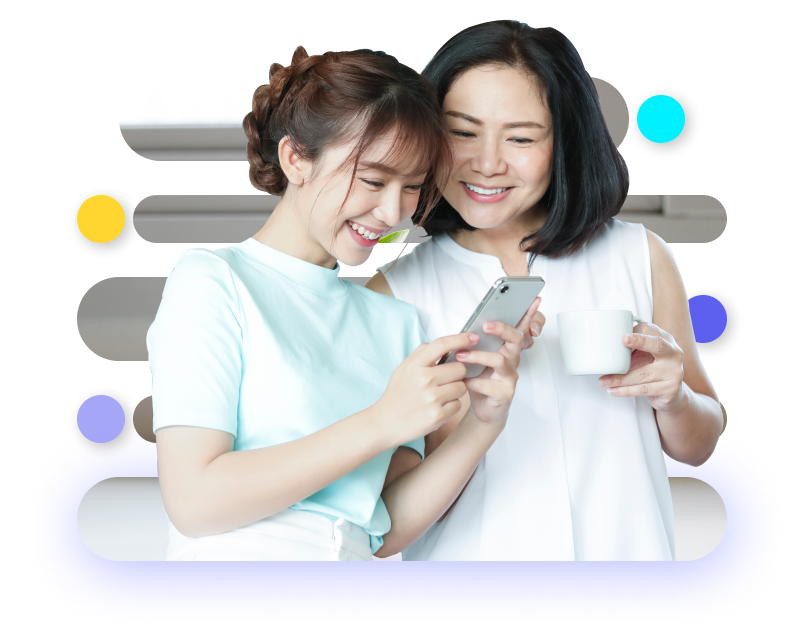
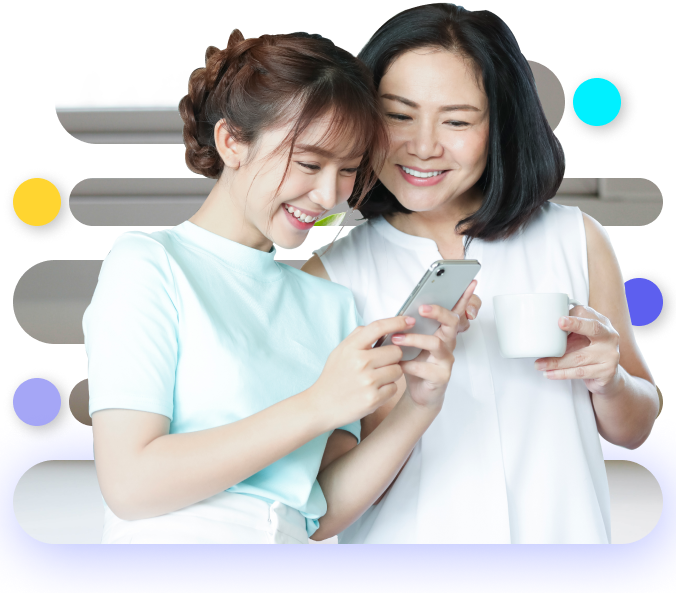
done 77%

diff --git a/components/MoneyFrom.vue b/components/MoneyFrom.vue
@@ -1,51 +1,89 @@
 <template>
-    <div class="bg-yellow-300 flex justify-center">
-        <div class="backdrop-blur-[42px] w-281 lt-md:w-238  p-5 border border-white">
-            <div>
-                <p><li>Lệ phí</li></p>
-                <p>
-                    <span>! 6AUD</span> 3AUD
-                    <p>Giảm 50% phí </p>
-                </p>
+    <div class="bg-transparent flex justify-center items-center md:w-281 w-238 lt-md:absolute lt-md:top-15">
+        <div class="bg-shadow-blur backdrop-blur-[50px] md:w-281 w-238 p-8 lt-md:p-5 lt-md:p-4  border border-white rounded-12 md:absolute md:top-[3.4rem]">
+            <div class="pb-6">
+                <ButtonMoney />
             </div>
-            <div>
-                <p>
+            <div class="flex justify-between pb-6">
+                <div>
+                    <li>Lệ phí</li>
+                </div>
+                <div class="text-14">
+                    <span class="text-gray-400 line-through">! 6AUD</span> 3AUD
+                    <div class="text-18 text-xanhla">Giảm 50% phí </div>
+                </div>
+            </div>
+            <div class="flex-between pb-6">
+                <div>
                     <li>Tỉ giá</li>
-                </p>
-                <p>1 AUD = 17.900 VND</p>
+                </div>
+                <div class="font-bold">1 AUD = 17.900 VND</div>
             </div>
-            <div>
-                <p>
-                <li> Tỉ lệ đảm bảo</li>
-                </p>
-                <p>
-                    1.20633 <img src="../public/chart.svg"/>
-                </p>
+            <div class="flex-between items-end pb-6">
+                <div>
+                    <li> Tỉ lệ đảm bảo</li>
+                </div>
+                <div>
+                    1.20633 <img src="../public/chart.svg" class="w-2/6"/>
+                </div>
             </div>
-            <div>
-                <ButtonMoney/>
+            <div class="pb-6">
+                <ButtonMoney />
             </div>
-            <div class="flex text-center">
-                <p class="span-center basis-2/4 border-r"><span class="font-bold">Tiết kiệm</span><br/>21.29 GPA</p>
-                <p class="span-center basis-2/4"><span class="font-bold">Vận chuyển </span> <br/>trong 4 giờ </p>
+            <div class="flex text-center pb-12">
+                <p class="span-center basis-2/4 border-r"><span class="font-bold">Tiết kiệm</span><br />21.29 GPA</p>
+                <p class="span-center basis-2/4"><span class="font-bold">Vận chuyển </span> <br />trong 4 giờ </p>
             </div>
-            <div>
+            <div class="font-bold flex justify-between">
                 <p>
                     Tổng cộng:
                 </p>
                 <p>100.000.000 AUD</p>
             </div>
-            <div> 
-                <button>Chuyển tiền</button>
+            <div class="pt-6 flex justify-end">
+                <button class="btn bg-yellow-btn py-3 rounded-12 p-12 shadows-yellow">Chuyển tiền</button>
             </div>
         </div>
     </div>
 </template>
 <script>
 export default {
-    
+
 }
 </script>
 <style>
-    
+.flex-between {
+    display: flex;
+    justify-content: space-between;
+}
+.bg-yellow-btn{
+    background-color: #FFD530 !important;
+}
+.shadows-yellow{
+   box-shadow: 4px 8px 48px rgba(255, 220, 94, 0.8)
+}
+.text-18{
+    font-size: 18px;
+}
+.text-14{
+    font-size: 14px !important;
+}
+.text-xanhla{
+    color: #4AE800;
+}
+/* blur */
+.w-281 {
+    width: 28.125rem;
+}
+
+.w-238 {
+    width: 20.875rem !important;
+}
+top-34{
+    top:3.4rem;
+}
+.bg-shadow-blur{
+    box-shadow: 4px 8px 48px rgba(0, 0, 0, 0.05);
+}
+
 </style>

diff --git a/components/Security.vue b/components/Security.vue
@@ -1,39 +1,25 @@
 <template >
-    <div class="relative border flex flex-col">
-        <div class="w-2/4 ">
-            <img src="../public/Watch-Phone.png" alt="" class="absolute top-0 -left-[12%]">
+    <div class="flex justify-between lt-md:flex-col">
+        <div class="flex md:justify-center items-center pb-3 gap-6">
+            <img src="../public/power.png" class="w-[50px] lt-md:w-6 text-sm object-cover">
+            <div>
+                <p class="bg-yellow p-2 text-[14px] rounded-2 py-1 px-2 w-fit">Security</p>
+                <p class="lt-md:text-sm font-semibold">Bảo mật an toàn trên không gian mạng</p>
+            </div>
         </div>
-        <div class="w-2/4 absolute py-[7%] -right-[5%]">
+        <div class="flex md:justify-center items-center gap-6">
+            <img src="../public/Star.png" class="w-[50px] lt-md:w-6 text-sm object-cover">
             <div>
-            <p class="font-semibold text-[20px]">Nơi gửi gắm niềm tin </p>
-            <p class="font-[700] text-[34px]">Hãy để chúng tôi làm điều đó giúp bạn và những người thân yêu</p>
-            </div>
-            <div>
-            <p class="font-semibold text-[20px]">Chuyển đổi tiền với mệnh giá thấp nhất</p>
-            <p>Từ giờ trở đi, bạn có thể nhận tiền gửi ngân hàng một cách an toàn và bảo mật từ Hoa kỳ qua số thẻ ghi nợ Visa của mình. Trong thời gian có hạn, người gửi của bạn sẽ nhận được ưu đãi đặc biệt khi gửi tiền đến thẻ ghi nợ Visa qua “CHUYỂN TIỀN TIẾT KIỆM”</p>
-            </div>
-            <div class="flex justify-between">
-                <div class="flex justify-center items-center gap-6">
-                    <img src="../public/power.png" class="w-[50px] h-[64px]">
-                <div>
-                    <p class="bg-yellow p-2 text-[14px] w-[20%]">Security</p>
-                    <p>Bảo mật an toàn trên không gian mạng</p>
-                </div>
-                </div>
-                <div class="flex justify-center items-center gap-6">
-                    <img src="../public/Star.png" class="w-[50px] h-[64px]">
-                    <div>
-                        <p class="bg-yellow p-2 text-[14px] w-[20%]">Loyalty</p>
-                        <p> Đảm bảo sự trung thành tuyệt đối</p>
-                    </div>
-                </div>
+                <p class="bg-yellow p-2 text-[14px] rounded-2 py-1 px-2 w-fit">Loyalty</p>
+                <p class="lt-md:text-sm font-semibold"> Đảm bảo sự trung thành tuyệt đối</p>
             </div>
         </div>
     </div>
+
 </template>
 <script>
 export default {
-    
+
 }
 </script>
 <style lang="">

diff --git a/components/Message.vue b/components/Message.vue
@@ -1,0 +1,35 @@
+<template>
+    <div class="flex justify-between lt-md:flex-col">
+        <div>
+            <img src="../public/Watch-Phone.png" alt="" class="lt-md:hidden w-[600px]">
+        </div>
+        <div class="pt-[64px]">
+            <div>
+                <p class="md:font-semibold text-xl lt-md:text-sm ">Nơi gửi gắm niềm tin</p>
+                <p class="font-bold text-[34px] lt-md:text-xl">Hãy để chúng tôi làm điều đó giúp bạn và những người thân yêu</p>
+            </div>
+            <div class="md:hidden flex justify-center">
+                <img src="../public/Watch-Phone.png" alt="" class="w-[120%]">
+            </div>
+            <div>
+                <p class="font-semibold text-xl pt-[64px] lt-md:pt-2 lt-md:text-sm">Chuyển đổi tiền với mệnh giá thấp nhất</p>
+                <p class="text-sm">
+                    Từ giờ trở đi, bạn có thể nhận tiền gửi ngân hàng một cách an toàn và bảo mật từ Hoa kỳ qua số thẻ
+                    ghi nợ Visa của mình. Trong thời gian có hạn, người gửi của bạn sẽ nhận được ưu đãi đặc biệt khi gửi
+                    tiền đến thẻ ghi nợ Visa qua “CHUYỂN TIỀN TIẾT KIỆM”
+                </p>
+            </div>
+            <div class="pt-[64px]">
+            <Security />
+            </div>
+        </div>
+    </div>
+</template>
+<script>
+export default {
+
+}
+</script>
+<style >
+
+</style>

diff --git a/components/Content.vue b/components/Content.vue
@@ -1,18 +1,18 @@
 <template>
-  <div>
+  <div class="md:mt-[92px] pt-6">
     <div class="lt-md:text-center">
       <div>
-        <p class="font-bold text-5xl">Gửi tiền tới Việt Nam</p>
-        <p class="text-34">và nhiều quốc gia khác.</p>
+        <p class="font-bold md:text-5xl text-32">Gửi tiền tới Việt Nam</p>
+        <p class="text-[34px] lt-md:text-xl ">và nhiều quốc gia khác.</p>
       </div>
-      <div class="flex justify-between lt-md:flex-col">
+      <div class="flex justify-between md:gap-4 lt-md:flex-col">
         <div class="flex-row-center gap-4 pt-4">
-          <img src="../public/user.svg" alt="" class="w-12">
-          <p>Hơn 1 triệu khách hàng</p>
+          <img src="../public/user.svg" alt="" class="w-12 lt-md:w-6"/>
+          <p class="text-4 lt-md:text-[14px]">Hơn 1 triệu khách hàng</p>
         </div>
         <div class="flex-row-center gap-4 pt-4">
-          <img src="../public/user.svg" alt="" class="w-12">
-          <p>Những chuẩn quy định về giá</p>
+          <img src="../public/user.svg" alt="" class="w-12 lt-md:w-6">
+          <p class="text-4 lt-md:text-[14px]">Những chuẩn quy định về giá</p>
         </div>
       </div>
     </div>
@@ -27,6 +27,8 @@
 
 </script>
 
-<style lang="scss" scoped>
-
+<style >
+.text-32{
+  font-size: 32px;
+}
 </style>

diff --git a/pages/index.vue b/pages/index.vue
@@ -1,8 +1,38 @@
 <template>
-    <div class="
-                w-19/20 max-w-[1200px] mx-auto font-sans ">
+    <div class="w-19/20 max-w-[1200px] mx-auto font-sans ">
         <Nav />
+        <div class="flex md:justify-between lt-md:flex-col relative z-1">
         <Content />
-        <MoneyFrom/>
+        <MoneyLeft/>
     </div>
+    <div class="relative z-8">
+    <img src="../public/message.png" class="w-[12rem] fixed bottom--12 right--12 z-99"/>
+    </div>
+    <!-- dùng tranform 50/50  -->
+        <div class="lt-md:hidden absolute top-[8rem] right-[40rem] z-0">
+            <img src="../public/Ellipse 2.png" alt="" class="blur-[150px]">
+        </div>
+        
+        <div class="relative lt-md:top-[12rem]">
+        <Message />
+        </div>
+    </div>
+    
 </template>
+<script>
+
+</script>
+<style>
+.top--6
+{
+    top: -6rem;
+}
+.btn-c{
+    bottom: 20px;
+  right: 30px;
+  z-index: 99;
+
+
+  cursor: pointer;
+}
+</style>

diff --git a/components/ButtonMoney.vue b/components/ButtonMoney.vue
@@ -1,11 +1,10 @@
 <template>
-    <div class="flex flex-row ">
-        <div class="bg-white p-2 rounded-l-2 flex flex-col">
+    <div class="flex flex-col">
+        <div class="bg-white p-2 rounded-2 relative">
             <label>Số tiền gửi</label>
+            <br/>
             <input type="text" name="" id="" class="btn pt-2 font-bold text-xl" placeholder="Nhập số tiền ...">
-        </div>
-        <div>
-            <button class="btn bg-light-blue rounded-r-2 h-full">
+            <button class="btn bg-light-blue rounded-r-2 h-full absolute right-0 top-0">
                 <select class="bg-transparent border-0 text-white">
                     <option value="VN">🇻🇳 VN</option>
                     <option option value="VO">🇺🇸 VO</option>

diff --git a/components/MoneyLeft.vue b/components/MoneyLeft.vue
@@ -1,0 +1,26 @@
+<template>
+    <div class="flex lt-md:flex-col justify-center items-center relative md:right-24">
+        <div class="flex flex-col relative md:absolute lt-md:top--3 md:top-0 md:right-1 flex lt-md:justify-center flex-row">
+            <img src="../public/bg-blur.png" alt="" class="w33 md:w36 md:h-[28rem]">
+            <div class="md:absolute ">
+            <MoneyFrom />
+            </div>
+        </div>
+    </div>
+</template>
+<script>
+
+</script>
+<style>
+.w36 {
+    width: 36.874rem;
+}
+
+.w33 {
+    width: 19.125rem;
+}
+
+.top--3 {
+    top: 1rem;
+}
+</style>

diff --git a/app.vue b/app.vue
@@ -358,6 +358,7 @@ p{
   padding: 0;
   margin: 0;
 }
+/* FormMoney */
 .btn{
   outline: none;
   background-color: transparent;
@@ -375,16 +376,17 @@ p{
   align-items: center;
   flex-direction: row;
 }
-.w-281{
-  width: 28.125rem;
-}
-.w-238{
-  width:23.875rem ;
-}
+
 .span-center{
-  /* display: flex; */
   justify-content: center;
   align-items: center;
 }
+.w-281 {
+    width: 28.125rem;
+}
 
+/* .lt-md:w-238 {
+    width: 23.875rem !important;
+} */
+/* End FormMoney */
 </style>

diff --git a/components/FormMoney.vue b/components/FormMoney.vue
@@ -1,6 +1,6 @@
 <template>
     <div class="">
-    <div class="backdrop-blur-[42px] w-[450px] lt-md:w-[230px]
+    <div class="backdrop-blur-[50px] w-[450px] lt-md:w-[230px]
         p-8 rounded-6 border-white border-2 absolute top-[61px] left-[100px] 
         lt-md:items-center lt-md:left-[25px] lt-md:top-[80px] lt-md:p-4
         ">

diff --git a/unocss.config.ts b/unocss.config.ts
@@ -4,6 +4,7 @@ export default defineConfig({
     theme: {
 		breakpoints: {
 			md: "689px",
+
 		},
 	},
 })
